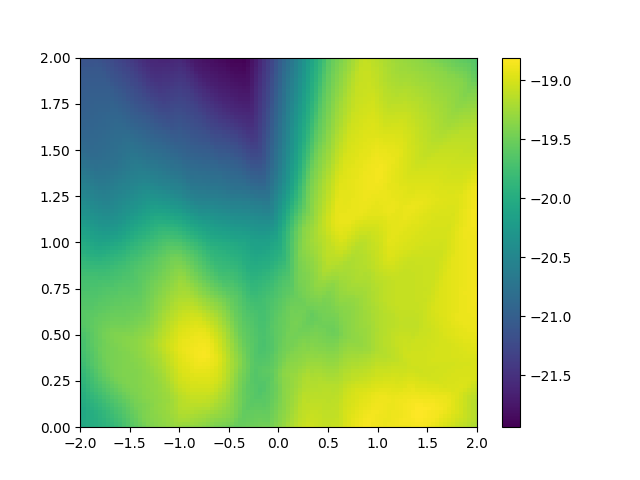
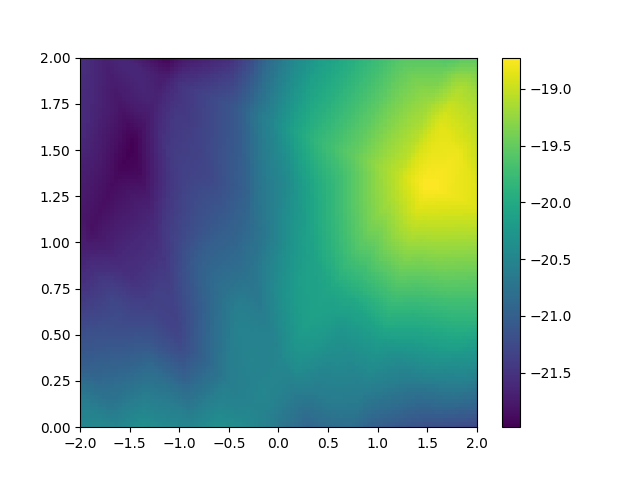
changes

diff --git a/test.py b/test.py
@@ -1,7 +1,7 @@
 # actor critic continuous option continuous time 
 import torch 
 import numpy as np
-from env_wrapper import  D2C
+from env_wrapper import  D2C, Env_test
 import gym
 import argparse
 import yaml
@@ -115,12 +115,12 @@ class COCT:
         predictions = { 'beta': 0.*self.beta(torch.cat((state, z_), dim=-1)),
                         'z_mu': z_D_mu[...,:-1],
                         'z_sigma': z_D_sigma[...,:-1],
-                        'D_mu':  -0.5 + z_D_mu[...,-1],
-                        'D_sigma':  0.5 * z_D_sigma[..., -1],
+                        'D_mu':  -15 + 0*z_D_mu[...,-1],
+                        'D_sigma':  0. * z_D_sigma[..., -1],
                         'z_mu_target': z_D_mu_target[...,:-1],
                         'z_sigma_target': z_D_sigma_target[...,:-1],
-                        'D_mu_target': -0.5 + z_D_mu_target[...,-1],
-                        'D_sigma_target': 0.5 * z_D_sigma_target[..., -1],
+                        'D_mu_target': -15 + 0*z_D_mu_target[...,-1],
+                        'D_sigma_target': 0. * z_D_sigma_target[..., -1],
                         # 'omega': self.z2omega( z_D[...,:-1] ),
                         }
         return predictions
@@ -193,7 +193,7 @@ class COCT:
 
         Ss_Zs_Taus_Ds = torch.cat((Ss,Zs, 0*Ds, Ds), dim=1)
         current_Qs_z = self.critic(Ss_Zs_Taus_Ds)
-        z_loss = - k * current_Qs_z
+        z_loss = -  k * current_Qs_z
                
         # duration loss
         D_dist = torch.distributions.Normal(predictions['D_mu'], predictions['D_sigma']+1e-4)
@@ -221,7 +221,8 @@ class COCT:
         loss.backward()
         self.actor_opt.step()
         # self.beta_opt.step()
-
+        writer.add_scalars('z_D_batch_size', {'critic':(1-q).sum().detach(),
+                                                }, self.total_steps, walltime=self.real_t)
         return (z_loss.mean().detach().numpy() , D_loss.mean().detach().numpy() , beta_loss.mean().detach().numpy() )
 
     def update(self):
@@ -238,9 +239,9 @@ class COCT:
             # print(D_values)
             writer.add_histogram('Duration hist', D_values, global_step = self.total_steps)
         
-        if self.total_steps % 2 == 0 and self.total_steps > 10000:
-            # z_loss, D_loss, beta_loss = self.update_actors(data)
-            z_loss = D_loss = beta_loss = 0
+        if self.total_steps % 2 == 0 :#and self.total_steps > 1000:
+            z_loss, D_loss, beta_loss = self.update_actors(data)
+            # z_loss = D_loss = beta_loss = 0
             writer.add_scalars('losses', {'critic':c_loss,
                                                 'actor_z': z_loss,
                                                 'actor_D': D_loss,
@@ -275,10 +276,17 @@ class COCT:
         plt.axis([Z_.detach().numpy().min(), Z_.detach().numpy().max(), D_.detach().numpy().min(), D_.detach().numpy().max()])
         # plt.colorbar()
         # ax.set_title('surface')
-        plt.savefig('critic.png')
+        plt.savefig('critic_{}.png'.format(ID))
         plt.close()
 
-
+    def plot_value(self):
+        X = torch.linspace(-10,10,100).reshape(-1,1)
+        Y = self.value(X)
+        fig = plt.figure()
+        plt.plot(X.detach().numpy(), Y.detach().numpy())
+        plt.savefig('value_{}.png'.format(ID))
+        plt.close()
+        
     def test_value(self):
         # test for pendulum
         theta = torch.linspace(-torch.pi, torch.pi, 100)
@@ -303,13 +311,17 @@ class COCT:
         plt.axis([Theta.detach().numpy().min(), Theta.detach().numpy().max(), Theta_dot.detach().numpy().min(), Theta_dot.detach().numpy().max()])
         # plt.colorbar()
         # ax.set_title('surface')
-        plt.savefig('value.png')
+        plt.savefig('value_{}.png'.format(ID))
         plt.close()
 
+    def plot_policy(self):
+        States = torch.linspace(-10, 10)
+        
     def scale_action(self,a):
         return 2 * torch.tanh(a)
 
-
+def evaluate():
+    pass
 
 if __name__ == '__main__':
 
@@ -326,11 +338,9 @@ if __name__ == '__main__':
         config = yaml.full_load(file)
 
     param = config['param']
-
-
-    param = config['param']
     
-    env = gym.make(param['env'])
+    # env = gym.make(param['env'])
+    env = Env_test()
     state_dim = len(env.observation_space.sample())
     action_dim = len(env.action_space.sample())
     config['state_dim'] = state_dim
@@ -344,7 +354,7 @@ if __name__ == '__main__':
     
 
     num_ep = 10000
-    continuous_env = D2C(discrete_env= env, low_level_funciton= lambda x,y,z: x)
+    continuous_env = D2C(discrete_env= env, low_level_funciton= lambda x,y,z: x, rho = agent.rho)
     t = 0.
     Returns = []
     for e in range(num_ep):
@@ -356,6 +366,7 @@ if __name__ == '__main__':
         D_ = torch.tensor([0.])
 
         new_movement = 1
+        r_newmovement = 0
         undiscounted_rewards = []
         while True :
             predictions = agent.step(S,z_)
@@ -373,6 +384,7 @@ if __name__ == '__main__':
                 
                 D = torch.nn.functional.softplus( D_dist.rsample() ) + continuous_env.dt
                 tau = 0.
+                r_newmovement = -1 * 0.05
                 new_movement = False
                 # sample movement omega
                 omega = agent.z2omega(z) # TO DO add stochasticity
@@ -380,6 +392,9 @@ if __name__ == '__main__':
             d = min((D-tau).detach().numpy(), agent.dt)
             
             sp,R,done,info = continuous_env.step(omega.detach().numpy(), d)
+            R -= 0.03/D.detach().numpy()
+            # R += r_newmovement
+            r_newmovement = 0
             agent.RB.notify(s=S.detach().numpy(), sp=sp, r=R, done=done, T=T,
                         z=z.detach().numpy(), z_=z_.detach().numpy(), 
                         tau=tau, tau_=tau_, D=D.detach().numpy(), D_=D_.detach().numpy(), d=d)
@@ -395,9 +410,9 @@ if __name__ == '__main__':
                                             }, agent.total_steps, walltime=agent.real_t)
             writer.add_scalars('action', {'z_mu': predictions['z_mu_target'][0],
                                             'z_sigma': predictions['z_sigma_target'][0]}, agent.total_steps, walltime=agent.real_t)
-            if agent.total_steps % 1000 == 0:
-                agent.test_critic()
-                agent.test_value()
+            if agent.total_steps % 1000 == 0 :
+                # agent.test_critic()
+                agent.plot_value()
             if agent.RB.real_size > 1 * config['param']['batch_size']:
                 agent.update()
 

diff --git a/env_wrapper.py b/env_wrapper.py
@@ -1,51 +1,58 @@
 import numpy as np
-
+from gym import spaces
 class Env_test:
     def __init__(self) -> None:
-        self.t = np.array([0.])
+        # self.s = 2 + np.random.rand(1)
         self.dt = 0.1
+        self.action_space = spaces.Box(low=-1., high=1., shape=(1,), dtype=np.float32)
+        self.observation_space = spaces.Box(low=-10., high=10., shape=(1,), dtype=np.float32)
 
     def reset(self,):
         self.counter = 0
         self.goal = np.array([1.])
-        self.t = np.array([0.])
-        # return np.concatenate((self.goal, self.t))
-        return self.t
+        self.s = np.array([0.])
+        # return np.concatenate((self.goal, self.s))
+        return self.s
 
-    def step(self, a):
+    def step(self, a, d=None):
         self.counter += 1
-        
-        self.t += a * 0.1
+        if d is not None:
+            self.s += a * d
+        else:
+            self.s += a * self.dt
         # print(self.t)
         # s = np.concatenate((self.goal, self.t))
-        s = self.t
-        r = -((self.goal - self.t)**2).sum()
+        
+        r = -((self.goal - self.s)**2).sum()
         done = False
-        if self.counter == 5:
+        if self.counter == 50:
             done = True
         info = {}
-        return s,r,done,info
+        return self.s ,r,done,info
 
 class D2C:
-    def __init__(self, discrete_env, low_level_funciton) -> None:
+    def __init__(self, discrete_env, low_level_funciton, rho) -> None:
         self.env = discrete_env
         self.dt = discrete_env.dt  # discrete time-step
-        
+        self.rho = rho
+
         self.low_level_func = low_level_funciton
 
     def reset(self,):
 
         # test for pendulum
-        self.env.reset()
-        self.env.g = 1.
-        self.env.state = self.env.np_random.uniform(low=[np.pi/2, 0.0], high=[np.pi/2, 0.0])
-        self.env.last_u = None
+        # self.env.reset()
+        # self.env.state[0] = np.pi/2
+        # self.env.state[1] = 0.
         
-        theta, thetadot = self.env.state
-        return np.array([np.cos(theta), np.sin(theta), thetadot], dtype=np.float32)
+        # theta, thetadot = self.env.state
+        # return np.array([np.cos(theta), np.sin(theta), thetadot], dtype=np.float32)
         ##
 
         return self.env.reset()
+
+    def get_continuous_reward(self, r, dt):
+        return r * np.exp(- self.rho * dt) * self.dt
 
     def step(self, A, duration ):
         ### inputs: A is the action (high or low) to be repeated
@@ -58,14 +65,20 @@ class D2C:
         done = False
         duration = max(duration ,self.dt)
         
-        for i in range( int(duration / self.dt)):
+        actual_duration = int(duration / self.dt)
+        for i in range(actual_duration):
             
             a = self.low_level_func(A, i * self.dt, duration)
             s, r, done, info = self.env.step(a)
             # self.env.render()
-            R += r * np.exp(-(i+1) * self.dt) * self.dt
+            R += self.get_continuous_reward(r, (i+1) * self.dt) 
             Info['rewards'].append(r)
             if done:
-                break
-            
+                return (s, R, done, Info)
+        d = duration - actual_duration * self.dt
+        if d > 0:
+            a = self.low_level_func(A, actual_duration * self.dt, duration)
+            s, r, done, info = self.env.step(a, d)
+            R += self.get_continuous_reward(r, (actual_duration+1) * self.dt)
+            Info['rewards'].append(r)
         return (s, R, done, Info)
